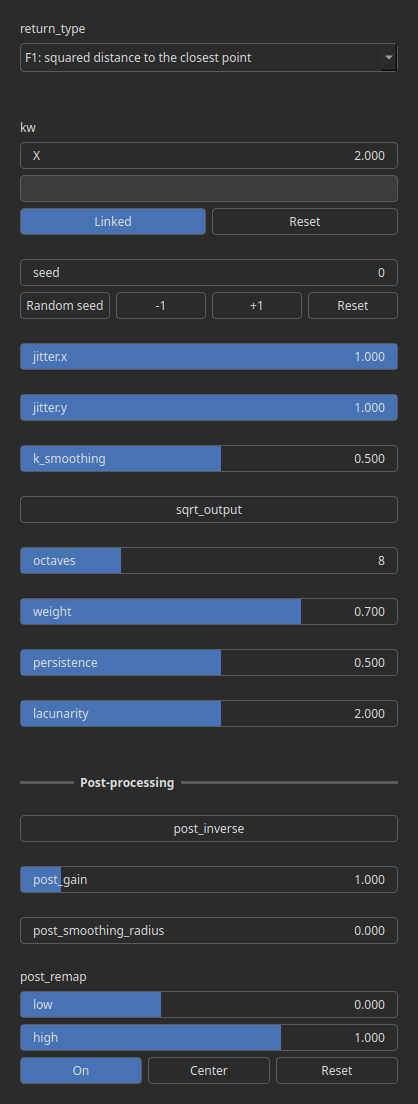
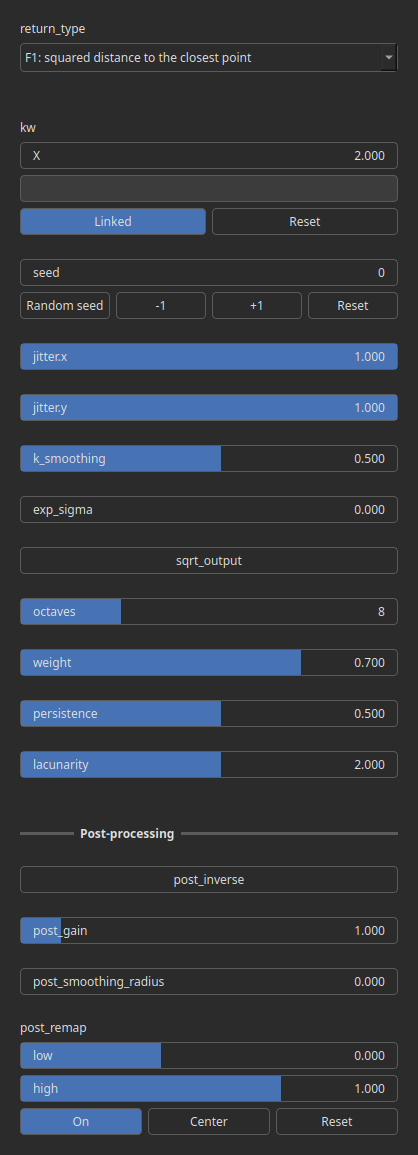
Add new return type for Voronoi nodes (edge distance with expoential decay). Update HighMap.

diff --git a/Hesiod/src/model/nodes/nodes_function/voronoi_fbm.cpp b/Hesiod/src/model/nodes/nodes_function/voronoi_fbm.cpp
@@ -37,6 +37,7 @@ void setup_voronoi_fbm_node(BaseNode *p_node)
   ADD_ATTR(FloatAttribute, "jitter.x", 1.f, 0.f, 1.f);
   ADD_ATTR(FloatAttribute, "jitter.y", 1.f, 0.f, 1.f);
   ADD_ATTR(FloatAttribute, "k_smoothing", 0.5f, 0.f, 1.f);
+  ADD_ATTR(FloatAttribute, "exp_sigma", 0.f, 0.f, 0.2f);
   ADD_ATTR(BoolAttribute, "sqrt_output", false);
   ADD_ATTR(IntAttribute, "octaves", 8, 0, 32);
   ADD_ATTR(FloatAttribute, "weight", 0.7f, 0.f, 1.f);
@@ -51,6 +52,7 @@ void setup_voronoi_fbm_node(BaseNode *p_node)
                                 "jitter.x",
                                 "jitter.y",
                                 "k_smoothing",
+                                "exp_sigma",
                                 "sqrt_output",
                                 "octaves",
                                 "weight",
@@ -95,6 +97,7 @@ void compute_voronoi_fbm_node(BaseNode *p_node)
                                          GET("seed", SeedAttribute),
                                          jitter,
                                          GET("k_smoothing", FloatAttribute),
+                                         GET("exp_sigma", FloatAttribute),
                                          rtype,
                                          GET("octaves", IntAttribute),
                                          GET("weight", FloatAttribute),

diff --git a/Hesiod/src/model/nodes/nodes_function/voronoi.cpp b/Hesiod/src/model/nodes/nodes_function/voronoi.cpp
@@ -38,6 +38,7 @@ void setup_voronoi_node(BaseNode *p_node)
   ADD_ATTR(FloatAttribute, "jitter.x", 1.f, 0.f, 1.f);
   ADD_ATTR(FloatAttribute, "jitter.y", 1.f, 0.f, 1.f);
   ADD_ATTR(FloatAttribute, "k_smoothing", 0.f, 0.f, 1.f);
+  ADD_ATTR(FloatAttribute, "exp_sigma", 0.f, 0.f, 0.2f);
   ADD_ATTR(BoolAttribute, "sqrt_output", false);
 
   // attribute(s) order
@@ -48,6 +49,7 @@ void setup_voronoi_node(BaseNode *p_node)
                                 "jitter.x",
                                 "jitter.y",
                                 "k_smoothing",
+                                "exp_sigma",
                                 "sqrt_output"});
 
   setup_post_process_heightmap_attributes(p_node);
@@ -88,6 +90,7 @@ void compute_voronoi_node(BaseNode *p_node)
                                      GET("seed", SeedAttribute),
                                      jitter,
                                      GET("k_smoothing", FloatAttribute),
+                                     GET("exp_sigma", FloatAttribute),
                                      rtype,
                                      pa_ctrl,
                                      pa_dx,

diff --git a/Hesiod/include/hesiod/model/enum_mapping.hpp b/Hesiod/include/hesiod/model/enum_mapping.hpp
@@ -195,6 +195,7 @@ static std::map<std::string, int> voronoi_return_type_map = {
     {"F1 * F2: squared", hmap::VoronoiReturnType::F1TF2_SQUARED},
     {"F1 / F2: squared", hmap::VoronoiReturnType::F1DF2_SQUARED},
     {"F2 - F1: squared", hmap::VoronoiReturnType::F2MF1_SQUARED},
+    {"Edge distance exp. decay", hmap::VoronoiReturnType::EDGE_DISTANCE_EXP},
     {"Edge distance squared", hmap::VoronoiReturnType::EDGE_DISTANCE_SQUARED},
     {"Cell value", hmap::VoronoiReturnType::CONSTANT},
     {"Cell value * (F2 - F1)", hmap::VoronoiReturnType::CONSTANT_F2MF1_SQUARED}};

diff --git a/docs/node_reference/nodes/GaussianDecay.md b/docs/node_reference/nodes/GaussianDecay.md
@@ -30,6 +30,12 @@ Math/Base
 
 |Name|Type|Description|
 | :--- | :--- | :--- |
+|post_gain|Float|No description|
+|post_inverse|Bool|No description|
+|post_mix|Float|No description|
+|post_mix_method|Enumeration|No description|
+|post_remap|Value range|No description|
+|post_smoothing_radius|Float|No description|
 |sigma|Float|Gaussian half-width, represents the distance from the peak of the Gaussian curve to the points where the amplitude drops to half of its maximum value.|
 
 # Example

diff --git a/docs/node_reference/nodes/Voronoi.md b/docs/node_reference/nodes/Voronoi.md
@@ -33,6 +33,7 @@ Primitive/Coherent
 
 |Name|Type|Description|
 | :--- | :--- | :--- |
+|exp_sigma|Float|No description|
 |jitter.x|Float|Amount of random jitter along the X-axis applied to Voronoi seed positions.|
 |jitter.y|Float|Amount of random jitter along the Y-axis applied to Voronoi seed positions.|
 |k_smoothing|Float|No description|

diff --git a/docs/node_reference/nodes/VoronoiFbm.md b/docs/node_reference/nodes/VoronoiFbm.md
@@ -33,6 +33,7 @@ Primitive/Coherent
 
 |Name|Type|Description|
 | :--- | :--- | :--- |
+|exp_sigma|Float|No description|
 |jitter.x|Float|Amount of random jitter applied to seed points along the X-axis.|
 |jitter.y|Float|Amount of random jitter applied to seed points along the Y-axis.|
 |k_smoothing|Float|No description|
